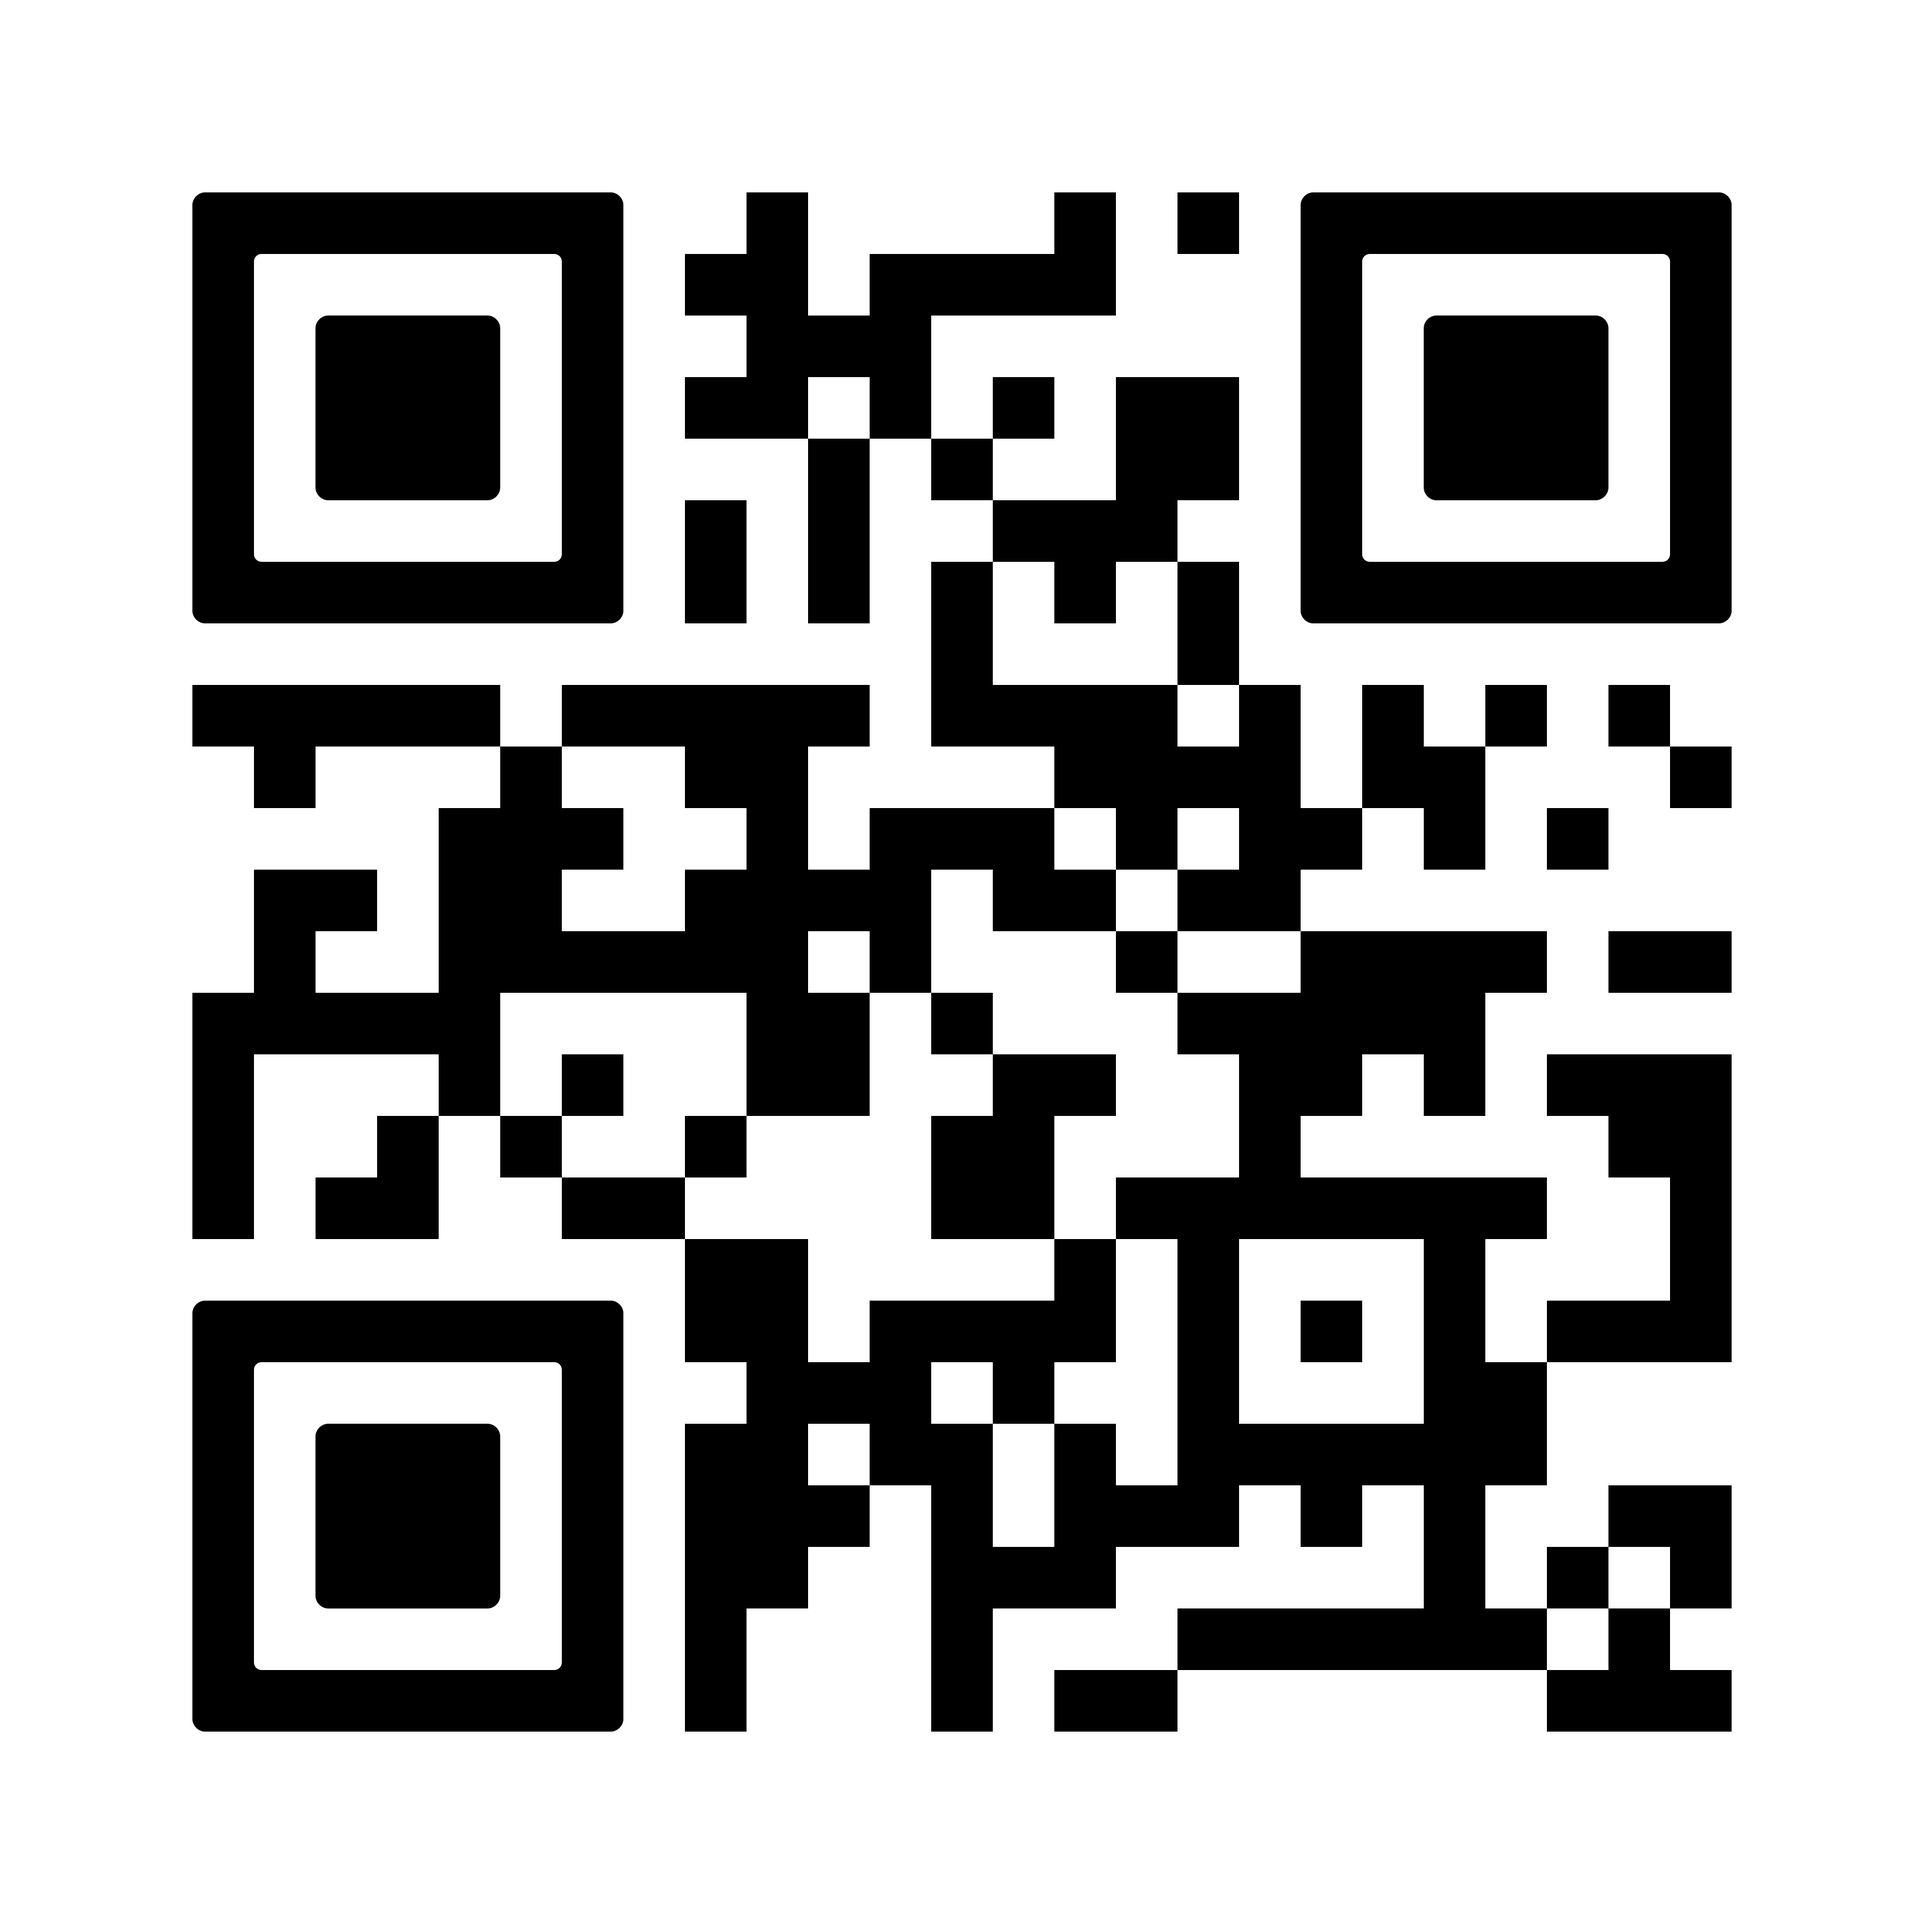
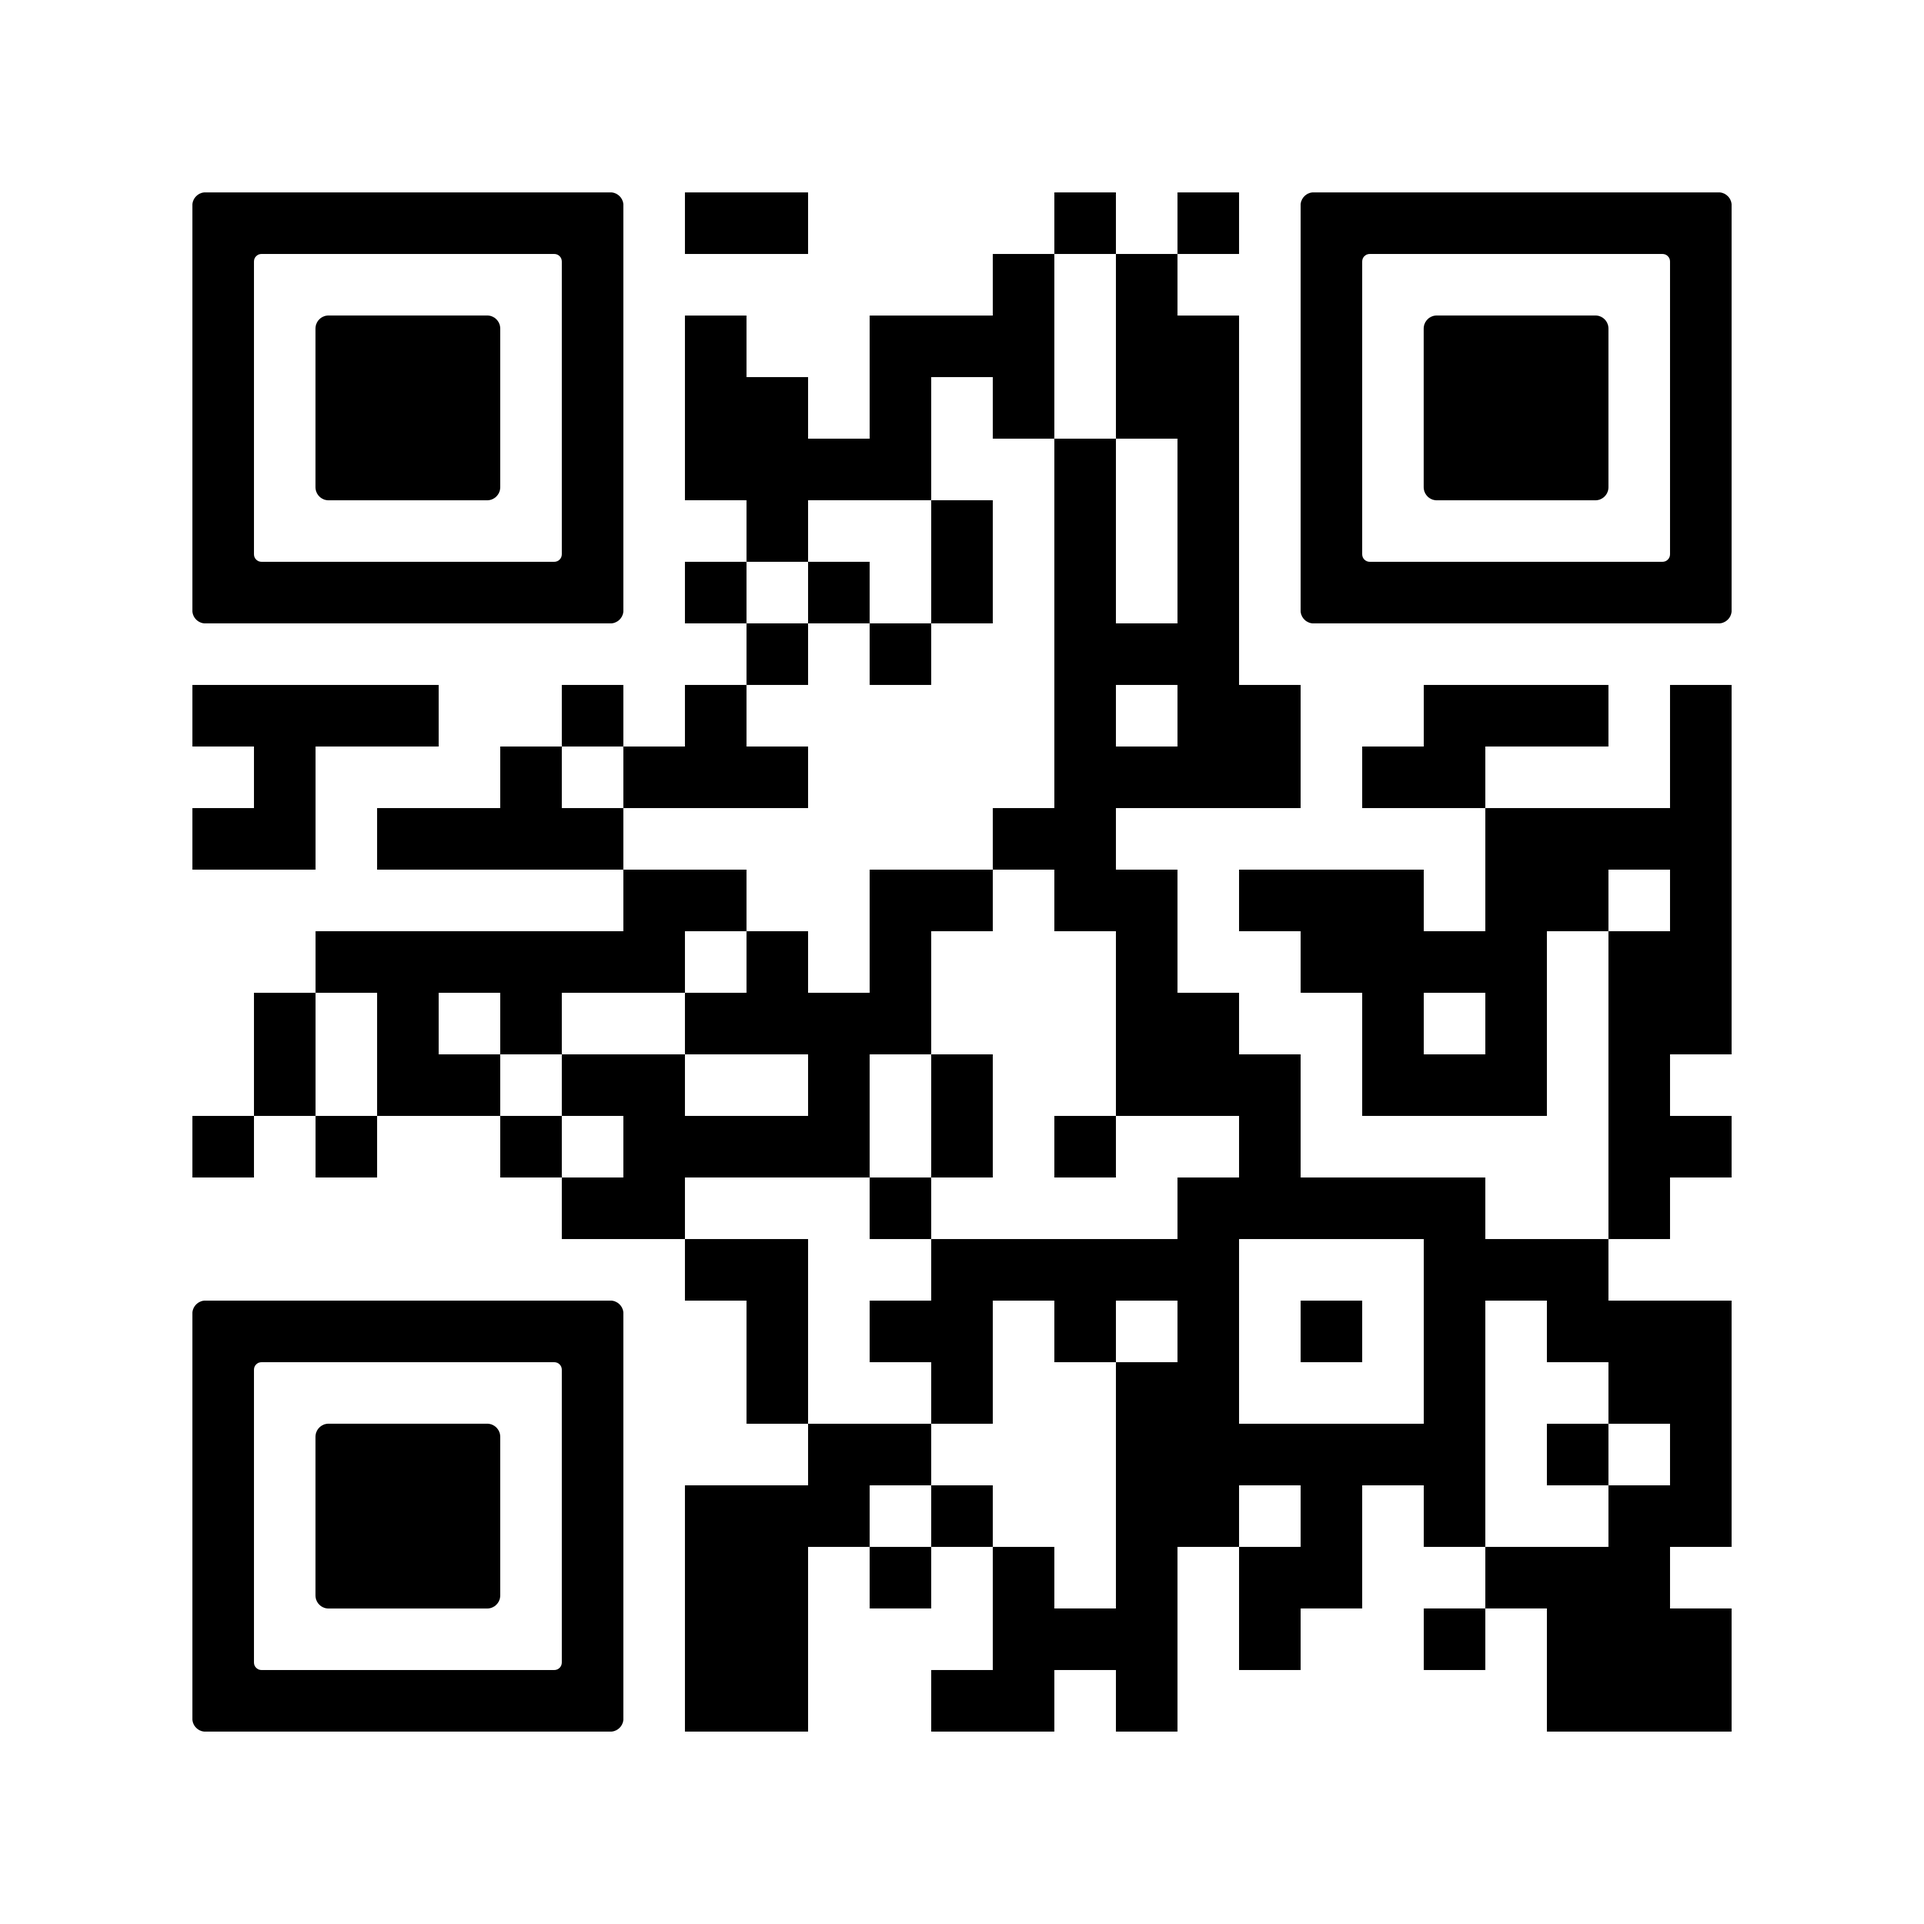
update links and QR code

Changed region(s): [[0.093, 0.093, 0.899, 0.899], [0.372, 0.837, 0.434, 0.899], [0.837, 0.806, 0.899, 0.868]]

diff --git a/index.html b/index.html
@@ -20,12 +20,14 @@
                     <p class="title">Scan for demo slides</p>
                     <img src="images/qr_code.png" alt="image of QR code" style="max-width: 50%; height: auto;">
                     <br>
-                    <a href="https://seanlim7.github.io/test-revealjs/" style="font-size: 60%">https://seanlim7.github.io/test-revealjs/ (change later)</a>
+                    <a href="https://seanlim7.github.io/bgt2025-demo-slides/" style="font-size: 60%" target="_blank">https://seanlim7.github.io/bgt2025-demo-slides/</a>
                 </section>
 
                 <section id="tool-demo" data-background-gradient="linear-gradient(to right, rgb(0,141,222), rgb(12,71,153))">
                     <p class="title">Demo: Shrink Line</p>
                     <img src="images/shrink_line_gp_pane.jpg" alt="image of the shrink line tool">
+                    <br>
+                    <a href="https://arcg.is/1rWqia" style="font-size: 80%" target="_blank">Link to tool</a>
                     <aside class="notes">
                         - This is the tool that will be used for the demos today <br>
                         - The tool shrinks a line <br>
@@ -193,11 +195,11 @@
                                                 break
                     </code></pre>
                     <p style="font-size: 60%"></p>
-                    <a href="https://pro.arcgis.com/en/pro-app/latest/arcpy/classes/polyline.htm" style="font-size: 25px">
+                    <a href="https://pro.arcgis.com/en/pro-app/latest/arcpy/classes/polyline.htm" style="font-size: 25px" target="_blank">
                         For more information on the segmentAlongLine method
                     </a>
                     <br>
-                    <a href="https://pro.arcgis.com/en/pro-app/latest/arcpy/get-started/reading-geometries.htm" style="font-size: 25px">
+                    <a href="https://pro.arcgis.com/en/pro-app/latest/arcpy/get-started/reading-geometries.htm" style="font-size: 25px" target="_blank">
                         For more information on geometry tokens
                     </a>
                     <aside class="notes">
@@ -276,7 +278,9 @@
 
                 <section id="gp-sample" data-background-gradient="linear-gradient(to right, rgb(0,141,222), rgb(12,71,153))">
                     <p class="title">Demo: creating a Geoprocessing sample</p>
-                    <a href="https://pro.arcgis.com/en/pro-app/latest/help/analysis/geoprocessing/share-analysis/geoprocessing-samples.htm">Guide for Geoprocessing samples</a>
+                    <a href="https://pro.arcgis.com/en/pro-app/latest/help/analysis/geoprocessing/share-analysis/geoprocessing-samples.htm" target="_blank">
+                        Guide for Geoprocessing samples
+                    </a>
                     <aside class="notes">
                         - Grab your script file from Properties <br>
                         - Put it in the folder structure along with your .atbx file, compress to .zip <br>
